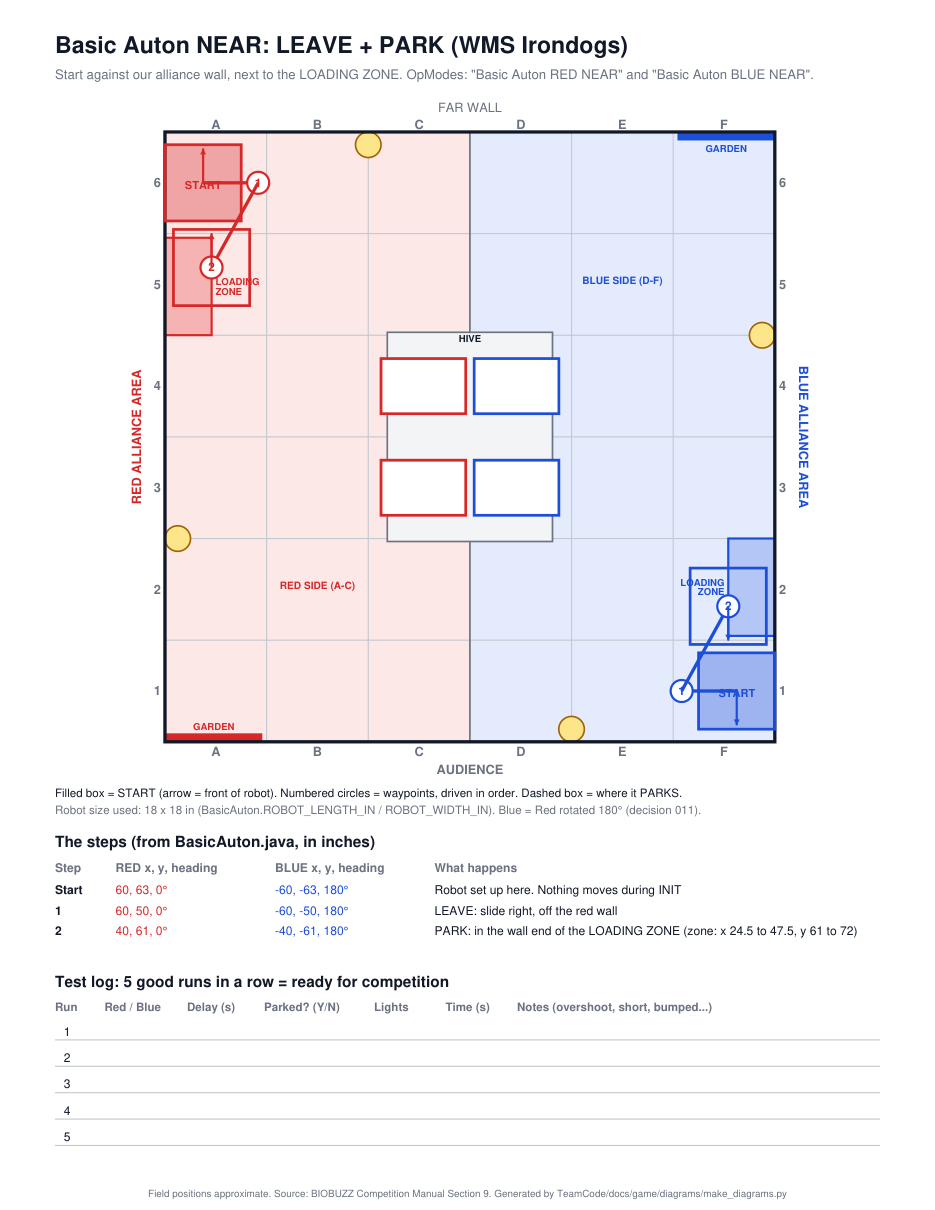
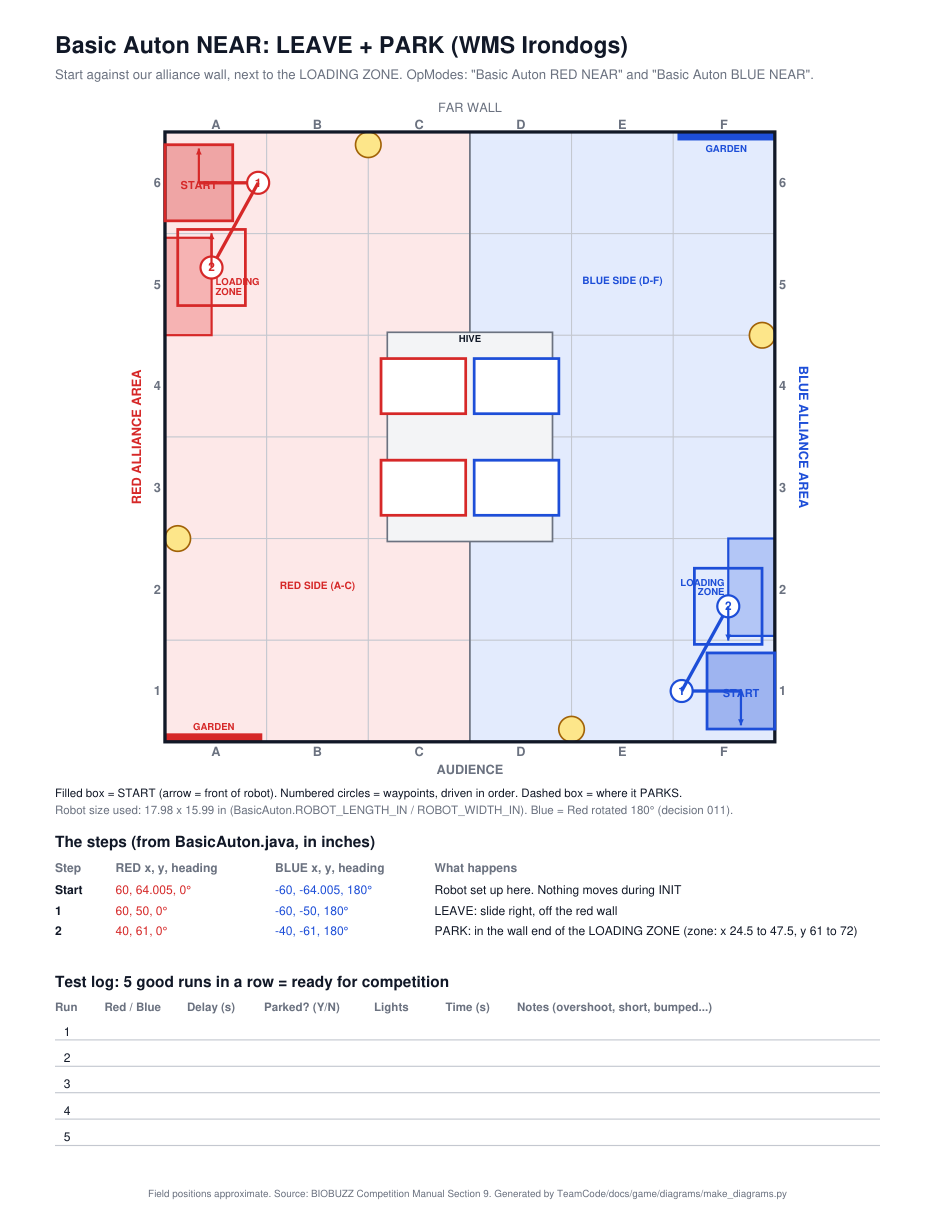
Real robot size (456.59 x 406.19 mm) in Basic Auton; record robot dimensions (#22, #21)
Claude-Session: https://claude.ai/code/session_01AJyb1M5NbqPhffJzAGudwT

diff --git a/TeamCode/src/main/java/org/firstinspires/ftc/teamcode/opmodes/auto/BasicAuton.java b/TeamCode/src/main/java/org/firstinspires/ftc/teamcode/opmodes/auto/BasicAuton.java
@@ -46,10 +46,10 @@ public abstract class BasicAuton extends LinearOpMode {
     protected abstract Route route();
 
     // ------------------------------------------------------------------------------------------------
-    // ROBOT SIZE. TODO(#22): measure the competition robot (inches) and update these.
+    // ROBOT SIZE, measured 11/3: 456.59 mm x 406.19 mm (hardware-config.md). Update if the robot changes.
     // ------------------------------------------------------------------------------------------------
-    public static final double ROBOT_LENGTH_IN = 18.0; // front to back
-    public static final double ROBOT_WIDTH_IN = 18.0;  // left to right
+    public static final double ROBOT_LENGTH_IN = 17.98; // front to back (456.59 mm)
+    public static final double ROBOT_WIDTH_IN = 15.99;  // left to right (406.19 mm)
 
     // ------------------------------------------------------------------------------------------------
     // RED positions (inches, degrees). See TeamCode/docs/game/field.md for the map.

diff --git a/TeamCode/docs/changes-made.md b/TeamCode/docs/changes-made.md
@@ -112,3 +112,6 @@ Hardware map trimmed to **one page** (the device list by subsystem). The hub por
 The 2 intake micro switches detect **NECTAR** (decision 025): `intakeNectarLeftSwitch` and `intakeNectarRightSwitch`. New `intake.isNectarDetected()` (true if either is pressed). The raw true/false is translated inside `Intake` using a wiring enum (`NECTAR_SWITCH_WIRING = SwitchWiring.NORMALLY_OPEN`). Intake Test shows "NECTAR detected" and each switch as PRESSED / not pressed. Hardware map and hardware-config updated.
 **Basic Auton** (#22, decision 026): 4 OpModes, Basic Auton RED/BLUE x NEAR/FAR, all sharing `BasicAuton.java`. LEAVE + PARK using the Pinpoint to drive to field positions. Red positions written once; Blue rotated 180°. Start delay 0-10 s with the dpad during INIT; lights show the alliance in INIT and GREEN/YELLOW when done; stops by 28 s. New `Odometry.setPose()`. Positions, robot size and driving gains are a first version to tune on a taped field.
 Basic Auton visuals for students (#22): **route sheets** `docs/game/diagrams/basic-auton-near.pdf` and `basic-auton-far.pdf` (Red + Blue routes, waypoints, park spot, steps table, 5-run test log), generated by `make_diagrams.py` straight from the positions in `BasicAuton.java`. **Drive team guide** `docs/worksheets/basic-auton-guide.pdf`: picking the OpMode, the INIT screen, the start delay (what, why, how, with a 30-second timeline), the end lights, and a checklist.
+
+11/3:
+Robot measured: 456.59 x 406.19 mm (17.98 x 15.99 in), wheelbase 264 x 336.93 mm. Recorded in `hardware-config.md` (new "Robot dimensions" section). Basic Auton uses the real size now (`ROBOT_LENGTH_IN` / `ROBOT_WIDTH_IN`), so start and park positions against the walls are exact. Route diagrams regenerated.

diff --git a/TeamCode/docs/hardware-config.md b/TeamCode/docs/hardware-config.md
@@ -26,6 +26,17 @@ If a name doesn't match, the OpMode crashes on INIT with an error like `Unable t
 - No spaces. Names are **case-sensitive**.
 - Label the physical wires with the same name.
 
+## Robot dimensions (measured 2026-11-03)
+
+| Measurement | mm | inches | Used by |
+|---|---|---|---|
+| Total length (front to back) | 456.59 | 17.98 | Basic Auton start/park positions (`BasicAuton.ROBOT_LENGTH_IN`). ⚠ Only 0.02 in under the 18 in starting size limit |
+| Total width (left to right) | 406.19 | 15.99 | Basic Auton (`BasicAuton.ROBOT_WIDTH_IN`) |
+| Wheelbase length (front wheel center to back wheel center) | 264.00 | 10.39 | Reference (Pedro Pathing, later) |
+| Wheelbase width (left wheel center to right wheel center) | 336.93 | 13.26 | Reference (Pedro Pathing, later) |
+
+**Still to measure (#21):** where each Pinpoint pod is, from the robot's center (`Odometry.X_POD_OFFSET_MM` / `Y_POD_OFFSET_MM`).
+
 ## Drivetrain (`subsystems/Drivetrain.java`)
 
 | Config name | Device type | Hub / Port | Direction | Notes                     |
